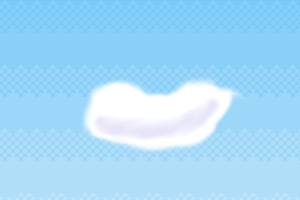
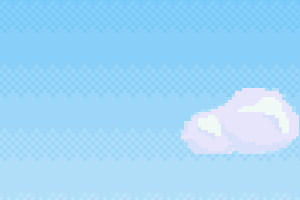
popas

Changed region(s): [[0.27, 0.39, 1.0, 0.78]]

diff --git a/sheets.py b/sheets.py
@@ -30,10 +30,26 @@ red_up_right = pygame.image.load(os.path.join("pics", "red_up_right.png"))
 zastavka = pygame.image.load(os.path.join("pics/menu", "zastavka.png"))
 cloud1_1 = pygame.image.load(os.path.join("pics/menu", "cloud1_1.png"))
 cloud1_2 = pygame.image.load(os.path.join("pics/menu", "cloud1_2.png"))
+cloud1_3 = pygame.image.load(os.path.join("pics/menu", "cloud1_3.png"))
+cloud1_4 = pygame.image.load(os.path.join("pics/menu", "cloud1_4.png"))
+cloud1_5 = pygame.image.load(os.path.join("pics/menu", "cloud1_5.png"))
+cloud1_6 = pygame.image.load(os.path.join("pics/menu", "cloud1_6.png"))
 cloud2_1 = pygame.image.load(os.path.join("pics/menu", "cloud2_1.png"))
 cloud2_2 = pygame.image.load(os.path.join("pics/menu", "cloud2_2.png"))
 cloud2_3 = pygame.image.load(os.path.join("pics/menu", "cloud2_3.png"))
+cloud2_4 = pygame.image.load(os.path.join("pics/menu", "cloud2_4.png"))
+cloud2_5 = pygame.image.load(os.path.join("pics/menu", "cloud2_5.png"))
+cloud2_6 = pygame.image.load(os.path.join("pics/menu", "cloud2_6.png"))
 cloud3_1 = pygame.image.load(os.path.join("pics/menu", "cloud3_1.png"))
 cloud3_2 = pygame.image.load(os.path.join("pics/menu", "cloud3_2.png"))
 cloud3_3 = pygame.image.load(os.path.join("pics/menu", "cloud3_3.png"))
+cloud3_4 = pygame.image.load(os.path.join("pics/menu", "cloud3_4.png"))
+cloud3_5 = pygame.image.load(os.path.join("pics/menu", "cloud3_5.png"))
+cloud3_6 = pygame.image.load(os.path.join("pics/menu", "cloud3_6.png"))
+grass1 = pygame.image.load(os.path.join("pics/menu", "grass_left.png"))
+grass2 = pygame.image.load(os.path.join("pics/menu", "grass_normal.png"))
+grass3 = pygame.image.load(os.path.join("pics/menu", "grass_right.png"))
+grass4 = pygame.image.load(os.path.join("pics/menu", "grass_right_max.png"))
+
+
 button_play = pygame.image.load(os.path.join("pics/menu", "button_play.png"))

diff --git a/main.py b/main.py
@@ -1,5 +1,5 @@
-import pygame_sdl2
-pygame_sdl2.import_as_pygame()
+#import pygame_sdl2
+#pygame_sdl2.import_as_pygame()
 
 import pygame, os, time, math
 from sheets import *
@@ -21,9 +21,10 @@ fontCavier = pygame.font.Font(os.path.join("fonts", "CaviarDreams.ttf"), 24)
 fontDeja = pygame.font.Font(os.path.join("fonts", "DejaVuSans.ttf"), 24)
 fontCapture = pygame.font.Font(os.path.join("fonts", "Capture_it.ttf"), 28)
 
-cloud1 = [0, cloud1_2, cloud1_1, cloud1_2, cloud1_1]
-cloud2 = [0, cloud2_1, cloud2_2, cloud2_3, cloud2_2]
-cloud3 = [0, cloud3_1, cloud3_2, cloud3_3, cloud3_2]
+cloud1 = [0, cloud1_5, cloud1_4, cloud1_3, cloud1_2, cloud1_1, cloud1_6]
+cloud2 = [0, cloud2_1, cloud2_2, cloud2_3, cloud2_4, cloud2_5, cloud2_6]
+cloud3 = [0, cloud3_1, cloud3_2, cloud3_3, cloud3_4, cloud3_5, cloud3_6]
+grass = [0, grass2, grass3, grass4, grass4, grass3, grass2]
 
 screen = pygame.display.set_mode((screenX, screenY))
 
@@ -326,12 +327,14 @@ def menu():
             screen.blit(cloud1[counter], (320, 465))
             screen.blit(cloud2[counter], (800, 465))
             screen.blit(cloud3[counter], (1200, 465))
+            screen.blit(grass[counter], (0, 806))
+
             screen.blit(button_play, (1600, 100))
 
             pygame.display.flip()
             prev_time = time.time()
 
-            if (counter % 4 == 0):
+            if (counter % 6 == 0):
                 counter = 0
 
         for ev in pygame.event.get():
